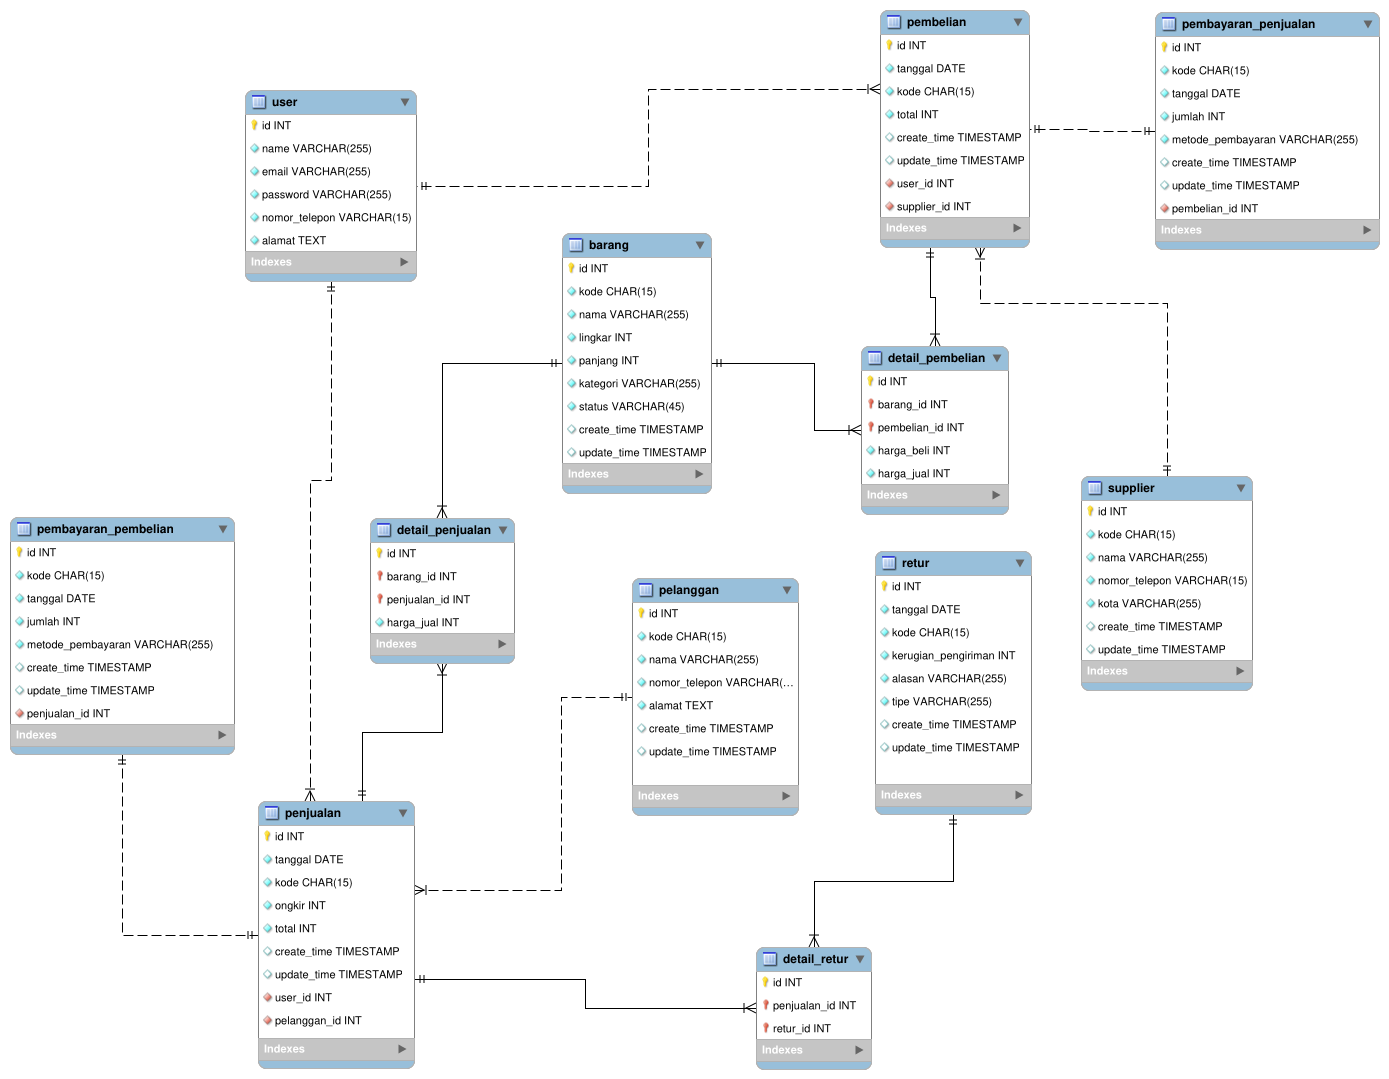
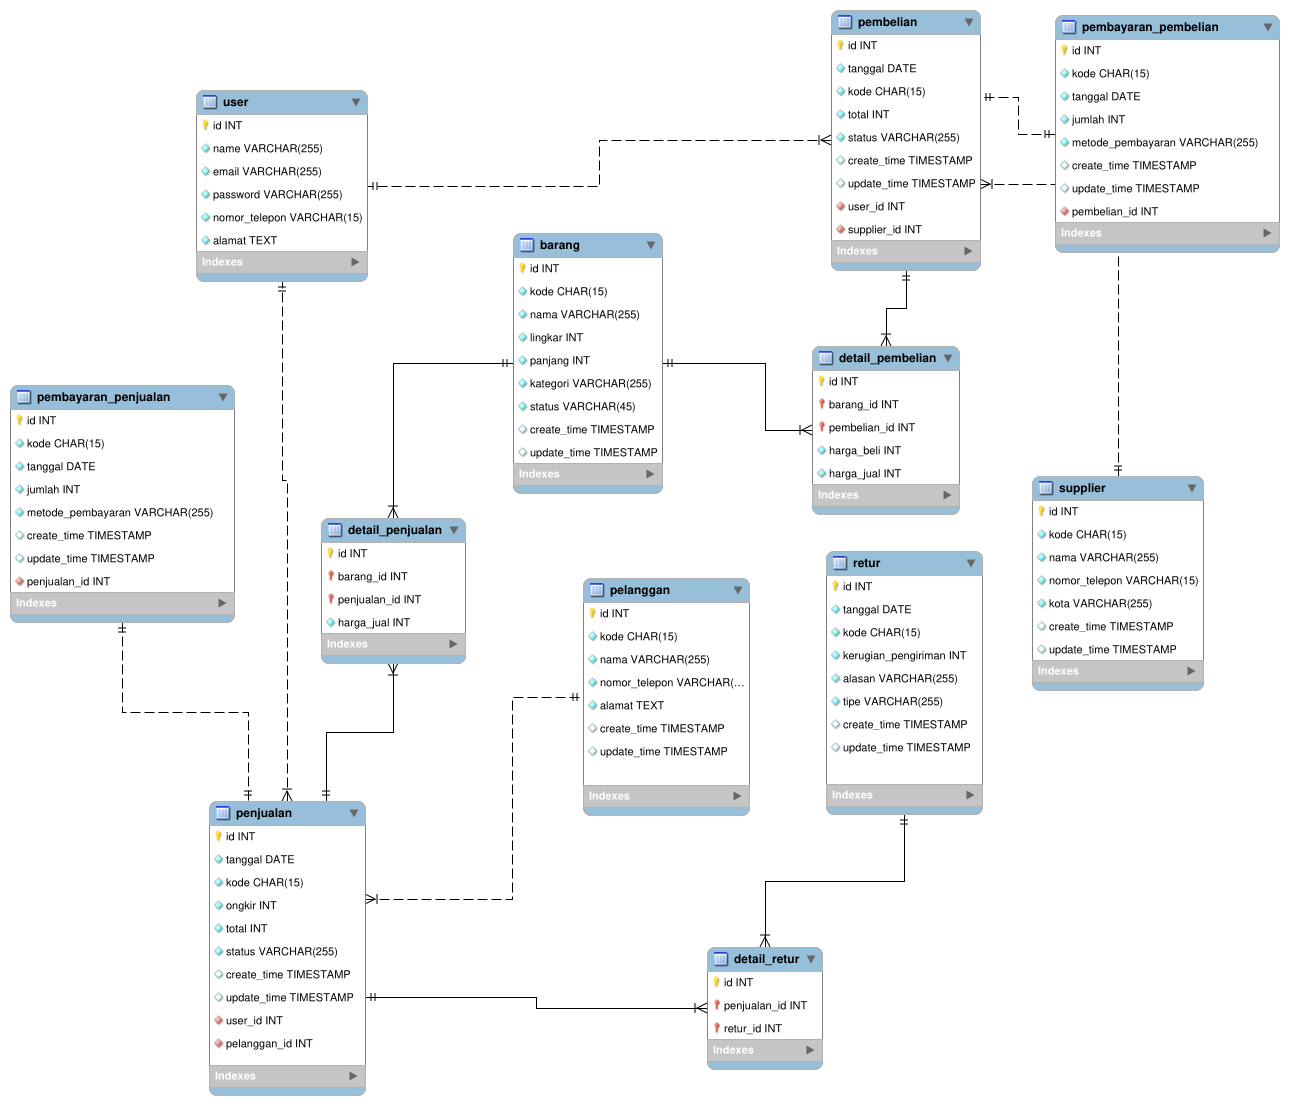
Menambahkan kolom status pada tabel pembelian

diff --git a/database/migrations/2026_09_21_000009_create_pembelian_table.php b/database/migrations/2026_09_21_000009_create_pembelian_table.php
@@ -13,6 +13,7 @@ return new class extends Migration
             $table->date('tanggal');
             $table->char('kode', 15)->unique();
             $table->unsignedInteger('total');
+            $table->string('status');
             $table->timestamps();
 
             $table->foreignId('supplier_id')->constrained('supplier')->onDelete('restrict');;
